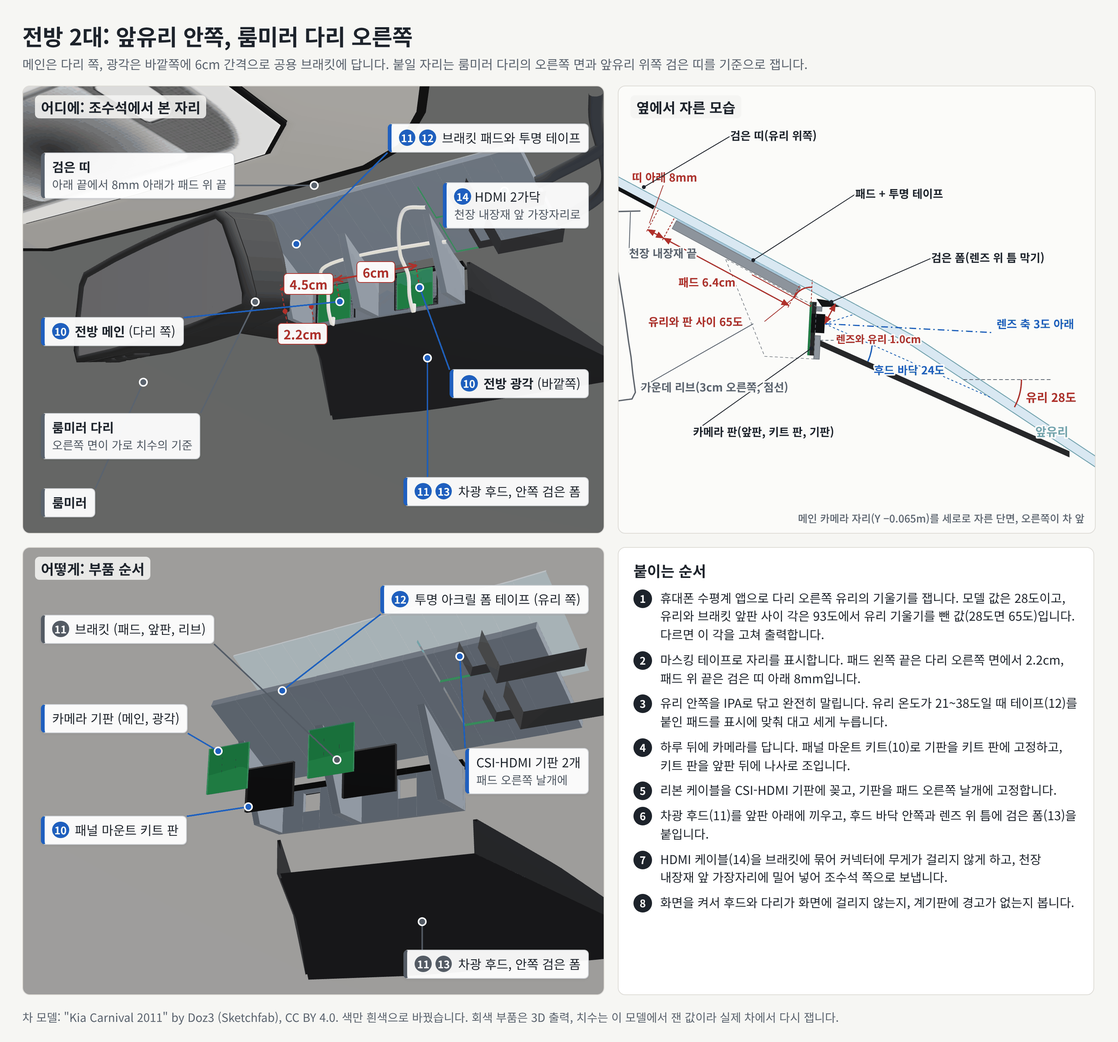
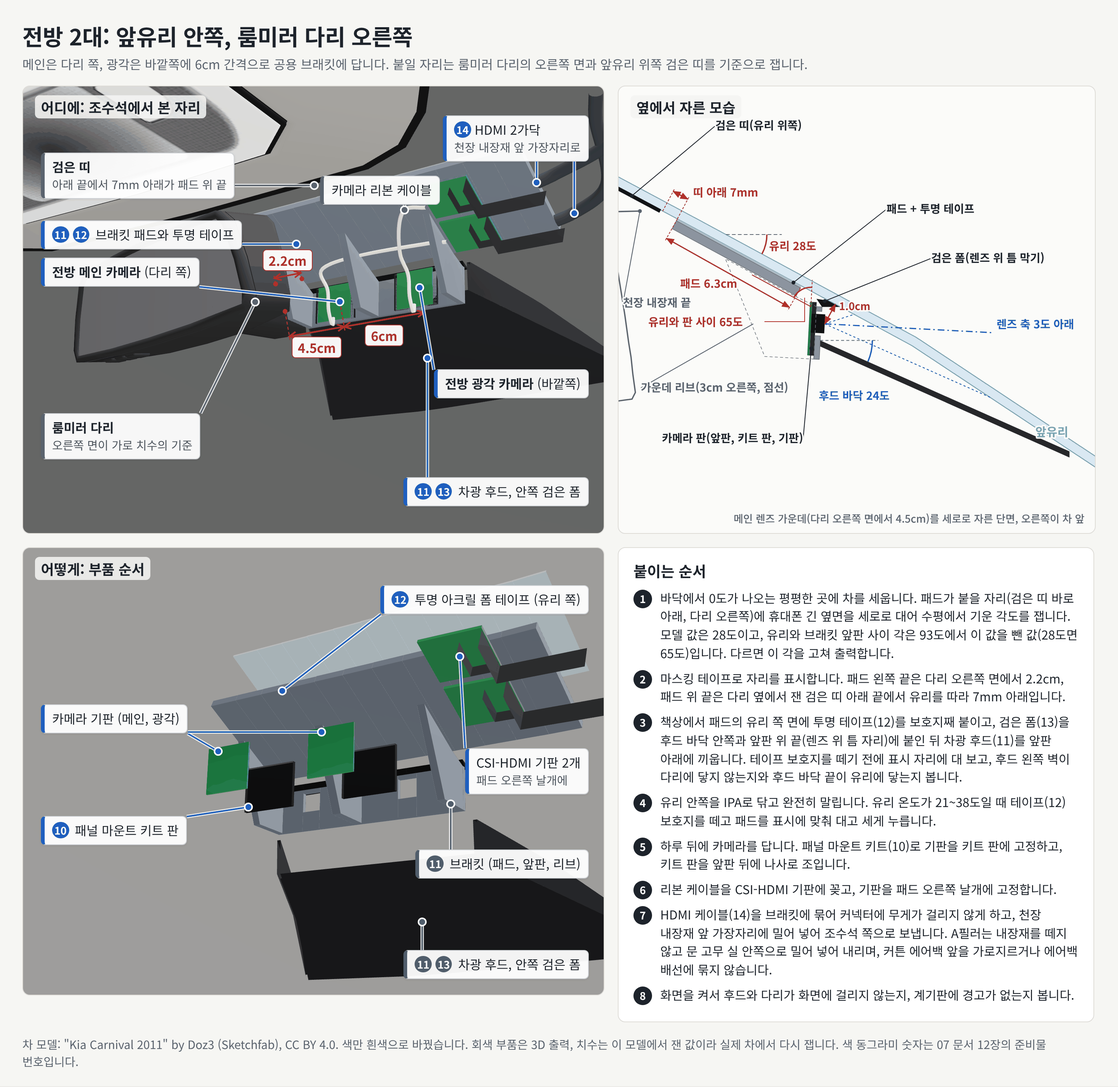
장착 자리별 그림 3장 다듬기(좌우 날개 표시 위치, 전방 확장 기판 표시, 겹친 설명선)와 문서의 숫자, 문장 바로잡기

diff --git a/docs/measurements/20_carnival_mount.md b/docs/measurements/20_carnival_mount.md
@@ -10,7 +10,7 @@
 
 모델 Y 기준으로 잡았던 각도 가운데 가장 크게 달라지는 것은 좌우 케이스입니다. 카니발의 옆유리는 위쪽이 차 안쪽으로 약 20도 기울어 있어, 렌즈를 유리에 바로 붙이면 카메라는 20도 위를 봅니다. 설정대로 20도 아래를 보게 하려면 케이스의 쐐기각이 약 40도여야 합니다. 앞유리는 룸미러 높이에서 수평으로부터 약 30도, 브래킷을 붙이는 바닥 위 1.55~1.58m에서는 약 28도 기울어 있어, 전방 카메라를 3도 아래로 보게 하는 브래킷은 유리면과 카메라 판 사이를 약 65도로 잡습니다(계산값).
 
-라즈베리파이는 조수석 아래에 둡니다. 경로를 따라 잰 케이블 길이(여유 15% 포함)는 전방 약 3.8m, 좌우 약 2.8~3.8m, 후방 약 5.9m입니다. 그래서 전방 HDMI는 5m를 쓰고, 후방은 카메라 케이블 1m에 5m 리피터를 이으면 남는 길이가 거의 없어 리피터를 하나 더 준비합니다(7장).
+라즈베리파이는 조수석 아래 바닥에 둡니다. 경로를 따라 잰 케이블 길이(여유 15% 포함)는 전방 약 3.7m, 좌우 약 3.0~3.8m, 후방 약 6.1m입니다. 그래서 전방 HDMI는 5m를 쓰고, 후방은 카메라 케이블 1m에 5m 리피터 하나로는 여유가 모자라 리피터 두 개를 잇습니다(7장).
 
 ## 2. 모델과 크기 맞추기
 
@@ -25,7 +25,7 @@
 
 공식 값은 2세대 카니발의 국내 제원이고 [V2], 영문 위키백과의 축거, 전장, 전폭도 같습니다 [V3]. 모델의 전폭은 사이드미러를 뺀 도장면의 폭이고, 전고는 루프 랙을 뺀 지붕 꼭대기와 루프 랙 위 끝을 함께 적었습니다. 공식 전고가 루프 랙을 넣은 값인지는 확인 필요입니다. 축거가 롱바디와 0.2% 안에서 맞고 숏바디와는 4.7% 달라, 모델은 롱바디(그랜드 카니발 11인승)입니다. 크기를 맞추는 데 쓰지 않은 전폭도 0.1% 안에서 맞습니다. 전장은 롱바디보다 2.1%(약 11cm) 짧아 앞뒤 끝이 덜 튀어나오게 만들어진 것으로 보이며 이유는 확인 필요입니다. 연식에 따른 제원 차이도 확인 필요입니다.
 
-사용자 차가 숏바디라면 축거가 13cm 짧아 앞뒤 거리가 들어간 값(3열 유리 위치, 케이블 길이)이 달라집니다. 숏바디의 후방 케이블은 축거 차이만큼 줄여 약 5.5m로 어림했습니다.
+사용자 차가 숏바디라면 축거가 13cm 짧아 앞뒤 거리가 들어간 값(3열 유리 위치, 케이블 길이)이 달라집니다. 숏바디는 축거가 13cm, 전장이 32cm 짧아, 후방 케이블은 앞 오버행이 같다고 보고 32cm를 줄여 여유 포함 약 5.8m로 어림했습니다. 6m와 가까워 리피터 수는 실제 차에서 잰 뒤 정합니다.
 
 재는 방법은 모두 같습니다. 모델의 차체, 유리, 실내(대시보드, 시트, 룸미러, 기둥 내장재)를 삼각형 면 그대로 두고, 카메라 자리에서 화면의 화소마다 시선을 쏘아 무엇에 먼저 닿는지를 셉니다. 렌즈 값은 `configs/five_cam.yaml`의 보정 전 값(768x432, Camera Module 3 Wide 초점거리 311px, Camera Module 3 564.3px, IMX291 160도 등거리 어안 315.5px)입니다. 유리 기울기는 붙일 자리 둘레 3cm 안의 유리 면에 점 25개를 찍어 평면을 맞춘 값입니다.
 
@@ -33,19 +33,19 @@
 
 앞유리는 휘어 있어 높이마다 기울기가 다릅니다. 가운데 근처의 기울기는 수평에서 바닥 위 1.45m 높이 33.6도, 1.50m 32.8도, 1.53m 29.8도, 1.56m 28.4도입니다. 모델의 앞유리는 평평한 면 조각을 이어 만든 것이라 1.52m와 1.60m 높이에서 기울기가 33.6도, 28.4도, 24.4도로 꺾이고, 위 값은 둘레 3cm를 평균한 것입니다. 실제 유리는 이 사이를 매끈하게 잇는 곡면이라 1.53m에서는 약 30도로 봅니다. 룸미러는 거울 몸체가 X 2.11~2.21m, Y −0.10~0.11m, Z 1.49~1.56m에 있고, 다리는 유리에 붙는 곳에서 Y −0.020~0.016m, Z 1.52~1.55m입니다.
 
-전방 2대는 다리 오른쪽(조수석 쪽)에 메인을 안쪽, 광각을 바깥쪽으로 6cm 간격을 두고 바닥 위 1.53m에 둡니다. 좌표는 메인 (2.246, −0.065, 1.53), 광각 (2.244, −0.125, 1.53)이고 렌즈 중심은 유리에서 약 1cm 안쪽입니다. 실제 차에서는 룸미러 다리의 오른쪽 면과 앞유리 위쪽 검은 띠를 기준으로 자리를 잡습니다. 다리 오른쪽 면(Y −0.020m)에서 메인 렌즈 중심까지 4.5cm, 브래킷 패드 왼쪽 끝까지 2.2cm이고, 패드 위 끝은 검은 띠의 아래 끝(바닥 위 약 1.58m)에서 유리를 따라 8mm 아래입니다. 패드는 유리를 따라 6.4cm입니다. 메인을 다리에 더 붙이지 않는 것은 차광 후드 때문입니다. 메인의 시선이 유리를 지나는 범위는 다리 높이에서 카메라 왼쪽 4.2cm까지 퍼지므로, 메인을 차 가운데에서 4.5cm 오른쪽에 두면 후드 왼쪽 벽이 다리에 걸립니다. 6.5cm 오른쪽에 두면 그 범위가 Y −0.023m에서 끝나 다리(Y −0.020m부터)와 3mm 떨어집니다.
+전방 2대는 다리 오른쪽(조수석 쪽)에 메인을 안쪽, 광각을 바깥쪽으로 6cm 간격을 두고 바닥 위 1.53m에 둡니다. 좌표는 메인 (2.246, −0.065, 1.53), 광각 (2.244, −0.125, 1.53)이고 렌즈 중심은 유리에서 약 1cm 안쪽입니다. 실제 차에서는 룸미러 다리의 오른쪽 면과 앞유리 위쪽 검은 띠를 기준으로 자리를 잡습니다. 다리 오른쪽 면(Y −0.020m)에서 메인 렌즈 중심까지 4.5cm, 브래킷 패드 왼쪽 끝까지 2.2cm입니다. 모델의 다리는 폭이 36mm라, 실제 다리 폭이 다르면 다리 가운데선에서도 재어(메인 6.3cm, 광각 12.3cm) 맞춰 봅니다. 패드는 경사 방향으로 약 6.3cm이고, 위 끝은 검은 띠의 아래 끝(바닥 위 약 1.58m)에서 유리를 따라 7mm 아래입니다. 검은 띠의 아래 끝은 광각 렌즈(Y −0.125m)까지는 높이가 같고 그보다 바깥쪽에서 올라가, 패드 위 끝 높이에서 띠까지의 거리가 Y −0.16m에서 약 1.3cm, −0.19m에서 약 3.8cm가 됩니다. 그래서 7mm는 다리 가까이에서 잽니다. 메인을 다리에 더 붙이지 않는 것은 차광 후드 때문입니다. 메인의 시선이 유리를 지나는 범위는 다리 높이에서 카메라 왼쪽 4.2cm까지 퍼지므로, 메인을 차 가운데에서 4.5cm 오른쪽에 두면 후드 왼쪽 벽이 다리에 걸립니다. 6.5cm 오른쪽에 두면 그 범위가 Y −0.023m에서 끝나 다리(Y −0.020m부터)와 3mm 떨어집니다.
 
 메인은 화면의 0.4%만 보닛 끝에 가리고, 화면 가운데 세로줄에서 바닥은 앞범퍼 앞 1.9m부터 보입니다. 광각은 화면 아래쪽 18%가 가려지고 바닥은 앞범퍼 앞 1.8m부터 보입니다. 가려진 18% 가운데 약 10%는 유리 너머의 보닛과 와이퍼 자리이고, 약 7%는 유리보다 가파르게 내려가 유리를 지나지 않는 시선이 닿는 대시보드 윗면입니다. 앞범퍼 바로 앞을 보지 못하는 것은 19번 측정 4.4절의 모델 Y와 같은 성질입니다.
 
 앞유리 자리의 약점은 유리를 비스듬히 지나는 시선이 많다는 것입니다. 유리에 75도보다 비스듬히 들어가는 시선이 메인 화면의 21%, 광각 화면의 32%이고 대부분 화면 아래쪽입니다. 이 각도에서는 유리 반사가 커져 대시보드가 화면에 비치기 쉬우므로 차광 후드를 꼭 둡니다. 후드 바닥판은 렌즈 아래 끝에서 시작해 메인 화면의 아래 끝 시선(수평에서 약 24도 아래)을 따라 내려가 유리에 닿게 만듭니다. 바닥판을 수평으로 두면 화면 아래쪽을 가립니다. 이 바닥판은 메인 화면을 가리지 않고, 광각은 화면 아래 두 모서리에서 차 앞 양옆의 바닥을 보는 시선(화면의 약 2%)을 가립니다. 이 시선은 모두 유리에 75도보다 비스듬히(가운데값 86도) 들어가 반사가 큰 곳이라 잃는 것이 적습니다. 나머지 길과 하늘을 보는 시선이 유리를 지나는 곳은 렌즈 앞 유리 점에서 경사를 따라 아래로 메인이 6.2cm 안(98%는 5.2cm 안), 광각이 12.8cm 안(98%는 7.1cm 안)입니다. 그래서 후드가 유리에 닿는 면은 경사 방향으로 약 10cm, 좌우로 먼 끝에서 약 25cm로 잡습니다. 후드 왼쪽 벽은 룸미러 다리와 가장 가까운 곳에서 약 6.5mm 떨어집니다. 이 범위 밖에서 유리를 지나는 광각의 시선은 화면의 1% 미만입니다.
 
-유리 기울기가 높이마다 달라 브래킷 각도는 실제로 붙일 자리(바닥 위 약 1.55m)에서 휴대폰 수평계로 잰 값으로 정합니다. 룸미러 뒤에 레인 센서나 블랙박스가 있는지는 확인 필요이고, 있으면 그 자리를 피해 오른쪽으로 옮기고 옮긴 만큼 설정 파일 좌표를 바꿉니다.
+유리 기울기가 높이마다 달라 브래킷 각도는 실제로 붙일 자리(바닥 위 약 1.55m)에서 휴대폰 수평계로 잰 값으로 정합니다. 룸미러 뒤에 레인 센서나 블랙박스가 있는지는 확인 필요이고, 있으면 그 자리를 피해 오른쪽으로 옮기고 옮긴 만큼 설정 파일 좌표를 바꿉니다. 조수석 햇빛가리개는 안쪽 끝이 Y −0.178m이고 후드 오른쪽 벽은 유리에 Y −0.16~−0.23m로 닿아 좌우 범위가 겹칩니다. 햇빛가리개를 내리고 올릴 때 후드에 닿지 않는지 봅니다.
 
 ## 4. 옆유리와 좌우 2대
 
 2열 슬라이딩 도어 유리와 3열 옆유리는 모두 위쪽이 차 안쪽으로 기울어 있습니다. 바닥 위 1.38m에서 잰 유리 바깥 방향 법선은 수평보다 20.5도(3열, X 0.28m), 20.9도(2열, X 1.15m) 위를 향합니다. 그래서 렌즈를 유리에 바로 붙이면 카메라는 약 20도 위를 보고, 설정의 20도 아래를 보게 하려면 카메라 축을 유리 법선에서 40.5도 아래로 돌려야 합니다. 10도 아래면 30.5도, 수평이면 20.6도입니다. 옆유리는 위로 갈수록 더 기울어 3열 유리 가운데에서 바닥 위 1.20m는 약 13도, 1.60m는 약 30도이고, 높이 1cm마다 약 0.4도씩 바뀝니다. 그래서 쐐기각은 실제로 붙일 높이에서 휴대폰 수평계로 잰 유리 기울기에 숙일 각도를 더해 정합니다.
 
-3열 옆유리에서 검은 테두리와 실내 내장재에 가리지 않는 투명한 부분은 바닥 위 1.38m 높이에서 X −0.43~0.375m이고, X 0.28m에서는 바닥 위 1.20~1.61m입니다. 2열 슬라이딩 도어 유리는 X 0.60~1.25m입니다. 좌우 카메라는 3열 유리 앞쪽인 X 0.28m, 바닥 위 1.38m에 둡니다. 렌즈 중심의 Y는 ±0.812m입니다. 실제 차에서는 차 안에서 보이는 유리 끝(검은 테두리의 안쪽 끝)을 기준으로, 렌즈 자리를 앞 끝에서 9.5cm 뒤, 아래 끝에서 유리를 따라 18.5cm 위(위 끝까지 24.7cm)로 잡습니다.
+3열 옆유리에서 검은 테두리에 가리지 않는 투명한 부분은 바닥 위 1.38m 높이에서 X −0.395~0.376m이고, X 0.28m에서는 바닥 위 1.20~1.61m입니다. 2열 슬라이딩 도어 유리는 X 0.60~1.25m입니다. 좌우 카메라는 3열 유리 앞쪽인 X 0.28m, 바닥 위 1.38m에 둡니다. 렌즈 중심의 Y는 ±0.812m입니다. 실제 차에서는 차 안에서 보이는 유리 끝(검은 테두리의 안쪽 끝)을 기준으로, 렌즈 자리를 앞 끝에서 9.6cm 뒤, 아래 끝에서 유리를 따라 18.6cm 위(위 끝까지 25.1cm)로 잡습니다. 앞 끝은 위로 갈수록 앞으로 약 12도 기울어 있어 9.6cm는 렌즈 높이에서 수평으로 잽니다. 기준으로 삼는 끝은 내장재가 아니라 검은 테두리의 끝이고, 내장재는 그보다 약 5mm 바깥에서 끝납니다. 내장재 끝에서 재면 각각 10.2cm, 19.2cm, 25.6cm입니다.
 
 | 숙인 각 | 쐐기각 | 바닥이 보이는 곳 | 75도 넘게 비스듬한 시선 |
 |---|---|---|---|
@@ -57,17 +57,17 @@
 
 숙인 각은 설정대로 20도로 둡니다. 문 옆에 선 사람의 발과 연석이 차체 옆 0.66m부터 보이고, 시뮬레이션에서 10도와 20도의 결과가 같았기 때문입니다(6장). 대신 화면 아래 16%는 유리를 아주 비스듬히 지나 어둡고 반사가 큽니다. 케이스가 렌즈와 유리 사이를 검게 막고 있으면 유리에 비치는 것은 케이스 안쪽이라 겹쳐 보이는 상은 생기지 않고 어두워지기만 합니다. 첫 시험에서 화면 아래가 너무 어두우면 30도 쐐기(10도)로 바꿉니다.
 
-케이스는 유리 쪽이 트인 쐐기 모양입니다. 렌즈 앞면을 유리에서 6mm 안에 두면, 유리에 80도보다 덜 비스듬히 들어가는 시선(화면의 89%)은 렌즈 중심에서 유리에 내린 점을 기준으로 앞뒤 각 32mm, 아래 34mm, 위 4mm 안에서 유리를 지납니다(계산값). 그래서 유리 쪽 입구는 폭 약 70mm, 높이 약 40mm로 렌즈 아래쪽을 크게 트고, 그 테두리에 검은 폼을 둘러 유리에 붙입니다. 화면 아래 두 모서리(약 3%)는 시선이 유리와 나란하거나 안쪽을 향해 케이스 벽이 보입니다. 카메라를 40도 기울이면 기판 위 끝이 유리 쪽으로 들려, 기판이 38mm 각이고 렌즈 경통이 15mm라면 기판 위 끝과 유리 사이가 5mm 남짓입니다(가정에 따른 계산값). 케이스를 그리기 전에 B0202 기판과 렌즈의 실제 치수를 잽니다.
+케이스는 유리 쪽이 트인 쐐기 모양입니다. 렌즈 앞면을 유리에서 6mm 안에 두면, 유리에 75도보다 덜 비스듬히 들어가는 시선(화면의 81%)은 렌즈 앞면(지름 14mm로 가정)의 어느 점에서 나가도 렌즈 중심을 유리에 내린 점에서 앞뒤 각 40mm, 아래 45mm, 위 6mm 안에서 유리를 지납니다(계산값). 그래서 유리 쪽 입구는 앞뒤 각 42mm, 아래 48mm, 위 9mm(폭 84mm, 높이 57mm)로 렌즈 아래쪽을 크게 틉니다. 입구 둘레에는 검은 폼(폭 6mm)과 투명 아크릴 폼 테이프(폭 8mm)를 붙일 날개를 두며, 그 바깥 치수는 11.6x9.4cm입니다. 위쪽 9mm는 유리 쪽으로 기운 렌즈 경통 테두리가 날개에 닿지 않게 둔 값입니다. 75~80도 사이의 시선은 렌즈 앞면 크기에 따라 화면의 약 2~4%가 입구 테두리에 일부 걸려 조금 어두워질 수 있어(계산값), 첫 시험에서 화면 아래 모서리를 봅니다. 화면 아래 두 모서리(약 3%)는 시선이 유리와 나란하거나 안쪽을 향해 케이스 벽이 보입니다. 몸통은 유리 쪽 폭이 88mm, 기판만 감싸는 뒤쪽 폭이 46mm이고 깊이는 약 3.7cm입니다. 카메라를 40도 기울이면 기판 위 끝이 유리 쪽으로 들려, 기판이 38mm 각이고 렌즈 경통이 15mm라면 기판 위 끝과 유리 사이가 5mm 남짓입니다(가정에 따른 계산값). 케이스를 그리기 전에 B0202 기판과 렌즈의 실제 치수를 잽니다.
 
 2열 자리도 시야는 비슷했습니다(20도에서 가림 약 4%, 바닥은 차체 옆 0.67m부터). 3열을 고른 것은 케이블과 후진 장면 때문입니다. 3열 유리가 열리는 환기창인지, 커튼 에어백이 3열 유리 위까지 오는지는 확인 필요입니다. 열리는 창이면 시험 중에는 열지 않습니다. 3열에 사람이 타면 케이스가 머리 옆에 오므로 모서리를 둥글게 만듭니다.
 
 ## 5. 후방
 
-테일게이트의 번호판 홈은 평평한 뒷벽이 X −0.93m, 바닥 위 0.88~1.06m에 있고, 그 아래는 아래쪽 턱(Z 0.80m)까지 비스듬히 내려가는 바닥입니다. 홈의 폭은 입구 기준으로 위쪽 약 0.90m, 아래쪽 약 0.84m이고, 뒷벽이 평평한 부분은 가운데 약 0.50m입니다. 위쪽 턱의 아랫면은 바닥 위 1.064m이고, 턱 끝은 X −0.999m라 뒷벽에서 약 7cm 나와 있습니다. 턱 끝에는 밝은 장식(Z 1.07~1.09m)이 있고 그 위에 KIA 엠블럼이 있습니다.
+테일게이트의 번호판 홈은 평평한 뒷벽이 X −0.93m, 바닥 위 0.88~1.06m에 있고, 그 아래는 아래쪽 턱(Z 0.80m)까지 비스듬히 내려가는 바닥입니다. 홈의 폭은 입구 기준으로 위쪽 약 0.90m, 아래쪽 약 0.84m이고, 뒷벽이 평평한 부분은 가운데 약 0.50m입니다. 위쪽 턱의 아랫면은 바닥 위 1.064m이고, 턱 끝(밝은 장식이 가장 뒤로 나온 곳)은 X −1.002m라 뒷벽에서 약 7cm 나와 있습니다. 이 장식은 Z 1.07~1.09m에 있고 그 위에 KIA 엠블럼이 있습니다.
 
-후방 카메라는 이 턱 아래 가운데 (−0.985, 0, 1.02)에 두고 뒤를 보며 20도 숙입니다. 20도 쐐기를 홈 뒷벽에 붙이고 카메라를 쐐기에 붙이는 방식이라, 쐐기와 카메라 케이스, 렌즈 길이만큼 렌즈가 뒷벽에서 나옵니다. 쐐기는 높이 4.6cm, 두께가 아래 끝 3mm에서 위 끝 약 2.1cm이고 위 끝을 턱 아랫면 6mm 밑에 둡니다. 카메라 케이스를 40x40x26mm, 렌즈 돌출을 16.5mm로 잡으면(확인 필요) 렌즈 앞면은 뒷벽에서 약 5.4cm 뒤, 턱 아랫면에서 약 4.4cm 아래, 턱 끝보다 약 1.4cm 안쪽입니다(계산값). 이 자리에서 차체가 가리는 것은 화면 아래 두 모서리의 뒤범퍼 윗면으로 화면의 0.1%이고, 턱 끝은 카메라 축에서 위로 약 94도에 있어 화면에 들어오지 않습니다. 바닥은 뒤범퍼 뒤 0.51m부터 보입니다. 바로 위에서 떨어지는 비는 턱이 막지만, 렌즈가 턱 끝 가까이 나와 있어 수직에서 약 18도보다 더 기울어 뒤에서 들이치는 비는 렌즈에 닿을 수 있습니다(계산값). 그래서 차양은 처음에 달지 않고, 비 오는 날 렌즈에 물방울이 남는지 본 뒤 덧답니다.
+후방 카메라는 이 턱 아래 가운데 (−0.985, 0, 1.02)에 두고 뒤를 보며 20도 숙입니다. 20도 쐐기를 홈 뒷벽에 붙이고 카메라를 쐐기에 붙이는 방식이라, 쐐기와 카메라 케이스, 렌즈 길이만큼 렌즈가 뒷벽에서 나옵니다. 쐐기는 높이 4.6cm, 두께가 아래 끝 3mm에서 위 끝 약 2.1cm이고 위 끝을 턱 아랫면 6mm 밑에 둡니다. 카메라 케이스를 40x40x26mm, 렌즈 돌출을 16.5mm로 잡으면(확인 필요) 렌즈 앞면은 뒷벽에서 약 5.4cm 뒤, 턱 아랫면에서 약 4.4cm 아래, 턱 끝보다 약 1.7cm 안쪽입니다(계산값). 이 자리에서 차체가 가리는 것은 화면 아래 두 모서리의 뒤범퍼 윗면으로 화면의 0.1%이고, 턱 끝은 카메라 축에서 위로 약 90도에 있어 화면에 들어오지 않습니다. 바닥은 뒤범퍼 뒤 0.51m부터 보입니다. 바로 위에서 떨어지는 비는 턱이 막지만, 렌즈가 턱 끝 가까이 나와 있어 수직에서 약 20도보다 더 기울어 뒤에서 들이치는 비는 렌즈에 닿을 수 있습니다(계산값). 그래서 차양은 처음에 달지 않고, 비 오는 날 렌즈에 물방울이 남는지 본 뒤 덧답니다.
 
-카메라는 번호판 위 끝과 턱 아랫면 사이의 틈에 들어가야 합니다. 그림은 긴 번호판을 홈 가운데보다 조금 아래(위 끝 Z 0.995m)에 그린 것으로, 이때 틈은 약 7cm입니다. 턱 아랫면에서 케이스 아래 끝까지는 약 5.7cm라 케이스와 번호판 사이는 약 1.2cm 남습니다. 렌즈가 뒷벽에서 나와 있어 위에서 30도로 내려다보면 렌즈 아래 끝이 번호판 위쪽 약 0.8cm를 덮습니다(계산값). 모델에는 번호판과 번호등이 없어, 번호판 종류(긴 번호판 또는 짧은 번호판)와 실제 높이, 번호등 자리, 카메라 케이스와 쐐기가 이 틈에 들어가는지는 확인 필요입니다.
+카메라는 번호판 위 끝과 턱 아랫면 사이의 틈에 들어가야 합니다. 그림은 긴 번호판을 홈 가운데보다 조금 아래(위 끝 Z 0.995m)에 그린 것으로, 이때 틈은 약 7cm입니다. 턱 아랫면에서 케이스 아래 끝까지는 약 5.7cm라 케이스와 번호판 사이는 약 1.2cm 남습니다. 렌즈가 뒷벽에서 나와 있어 위에서 30도로 내려다보면 렌즈 아래 끝이 번호판 위쪽 약 0.8cm를 덮습니다(계산값). 모델에는 번호판과 번호등, 턱 아랫면의 테일게이트 스위치나 손잡이가 없어, 번호판 종류(긴 번호판 또는 짧은 번호판)와 실제 높이, 번호등과 스위치나 손잡이의 자리, 카메라 케이스와 쐐기가 이 틈에 들어가는지는 확인 필요입니다. 카메라가 스위치나 손잡이를 막으면 옆으로 옮깁니다. 좌우로 10cm 옮겨도 차체가 가리는 비율은 0.14%에서 0.15%로 늘었고, 바닥이 보이는 거리는 그대로였습니다.
 
 ## 6. 카니발 차체로 돌린 카메라 대수 시뮬레이션
 
@@ -91,22 +91,22 @@
 
 ## 7. 배선 경로와 길이
 
-라즈베리파이와 두 NPU는 조수석 아래(X 1.70m, Y −0.45m)에 둡니다. 햇볕이 닿지 않고([07 문서](../07_vehicle_mount_and_training_plan.md) 5.1절), 전방 HDMI가 내려오는 오른쪽 A필러와 USB가 지나는 오른쪽 문턱에 가깝습니다.
+라즈베리파이와 두 NPU는 파이 케이스에 넣어 조수석 아래 바닥, 시트 레일 사이(X 1.76~1.92m, Y −0.45m 근처)에 둡니다. 햇볕이 닿지 않고([07 문서](../07_vehicle_mount_and_training_plan.md) 5.1절), 전방 HDMI가 내려오는 오른쪽 A필러와 USB가 지나는 오른쪽 문턱에 가깝습니다. 모델의 시트는 두께 없는 껍데기라 시트 아래 높이를 알 수 없어, 파이 케이스가 들어가는 높이와 사람이 앉았을 때 시트가 내려오는 만큼은 실제 차에서 잽니다.
 
 | 케이블 | 경로 길이 | 여유 15% 포함 | 쓸 케이블 |
 |---|---|---|---|
-| 전방 HDMI 2가닥 | 3.3m | 3.8m | HDMI 5m |
-| 우측 USB | 2.4m | 2.8m | 카메라 1m와 연장 3m |
+| 전방 HDMI 2가닥 | 3.2m | 3.7m | HDMI 5m |
+| 우측 USB | 2.6m | 3.0m | 카메라 1m와 연장 3m |
 | 좌측 USB | 3.3m | 3.8m | 카메라 1m와 연장 3m |
-| 후방 USB | 5.1m | 5.9m | 카메라 1m와 리피터 5m, 예비 리피터 5m |
+| 후방 USB | 5.3m | 6.1m | 카메라 1m와 리피터 5m 두 개 |
 
-길이는 모델에서 경유점을 이어 잰 값에 여유 15%를 더한 어림값입니다. 전방은 카메라에서 천장 앞 가장자리, 오른쪽 A필러, 대시 옆, 조수석 발밑 옆을 지나 조수석 아래로 갑니다. 좌우는 3열 유리 아래에서 옆 내장재를 따라 내려와 문턱 몰딩 아래로 앞으로 오고, 좌측은 2열 앞 바닥 매트 아래로 오른쪽으로 건너옵니다. 후방은 턱 아래 구멍으로 테일게이트 안에 들어가 위쪽 경첩 쪽 주름관, D필러, 3열 옆, 오른쪽 문턱 몰딩을 지납니다.
+길이는 모델에서 경유점을 이어 잰 값에 여유 15%를 더한 어림값입니다. 전방은 카메라에서 천장 앞 가장자리, 오른쪽 A필러, 대시 옆, 조수석 발밑 옆을 지나고, 발밑 매트 밑으로 비스듬히 들어가 시트 아래에 닿습니다. 좌우는 3열 유리 아래 끝, 렌즈 바로 밑에서 옆 내장재를 따라 내려와 문턱 몰딩 밑으로 앞으로 오고, 조수석 뒤에서 시트 아래로 들어갑니다. 3열 유리 바로 앞의 C필러 내장재에는 2열 안전벨트가 지나므로(모델 값, 확인 필요) 케이블을 그 안에 넣지 않습니다. 좌측은 2열 발밑의 바닥 매트 아래로 비스듬히 오른쪽으로 건너옵니다. 후방은 턱 아래 구멍으로 테일게이트 안에 들어가 위쪽 경첩 쪽 주름관, D필러, 3열 옆, 오른쪽 문턱 몰딩을 지납니다.
 
-후방은 카메라 케이블 1m와 리피터 5m를 더한 6m가 여유를 포함한 5.9m와 거의 같습니다. 그래서 리피터를 두 개 사서, 실제 경로가 6m를 넘으면 이어 씁니다. 라즈베리파이를 운전석과 조수석 사이에 두면 후방은 약 6.4m가 되어 처음부터 두 개를 이어야 합니다. 리피터는 허브 칩이 든 케이블이라 둘을 이으면 허브가 두 단이 되므로, 둘 다 5V 전원을 넣는 것을 기본으로 합니다(07 문서 2.3절).
+후방은 여유를 포함한 6.1m가 카메라 케이블 1m와 리피터 5m를 더한 6m를 넘어 리피터 두 개를 잇습니다. 리피터는 허브 칩이 든 케이블이라 둘을 이으면 허브가 두 단이 되므로, 둘 다 5V 전원을 넣는 것을 기본으로 합니다(07 문서 2.3절). 라즈베리파이를 운전석과 조수석 사이에 두면 후방은 약 6.6m로 더 길어집니다.
 
 ## 8. 한계와 확인 필요
 
-공개된 3D 모델이라 실제 차의 설계 도면과 같다는 보장이 없고, 특히 실내 내장재, 유리 곡률, 번호판 홈 모양은 실제 차와 다를 수 있습니다. 모델의 유리는 10~20cm 간격의 평평한 면으로 되어 있어 기울기 값은 1도 안팎의 오차를 봅니다. 전장이 제원보다 약 11cm 짧아, 범퍼 끝에서 잰 거리(바닥이 보이는 곳)와 후방 케이블 길이는 실제와 수 cm 다를 수 있습니다. 사용자 차가 롱바디인지 숏바디인지, 3열 유리가 열리는 창인지, 룸미러 뒤에 센서가 있는지, 번호판 종류와 번호등 자리는 확인 필요입니다. 3열 유리의 틴팅 농도는 야간 화질에 영향을 주므로 실제 차에서 먼저 봅니다. 렌즈 값은 보정 전 가정값이라, 비스듬한 시선의 비율과 바닥이 보이는 거리는 내부 보정 뒤 조금 달라질 수 있습니다.
+공개된 3D 모델이라 실제 차의 설계 도면과 같다는 보장이 없고, 특히 실내 내장재, 유리 곡률, 번호판 홈 모양은 실제 차와 다를 수 있습니다. 모델의 유리는 10~20cm 간격의 평평한 면으로 되어 있어 기울기 값은 1도 안팎의 오차를 봅니다. 전장이 제원보다 약 11cm 짧아, 범퍼 끝에서 잰 거리(바닥이 보이는 곳)와 후방 케이블 길이는 실제와 수 cm 다를 수 있습니다. 사용자 차가 롱바디인지 숏바디인지, 3열 유리가 열리는 창인지, 룸미러 뒤에 센서가 있는지, 번호판 종류, 번호등과 테일게이트 스위치 자리, 조수석 아래 높이는 확인 필요입니다. 3열 유리의 틴팅 농도는 야간 화질에 영향을 주므로 실제 차에서 먼저 봅니다. 렌즈 값은 보정 전 가정값이라, 비스듬한 시선의 비율과 바닥이 보이는 거리는 내부 보정 뒤 조금 달라질 수 있습니다.
 
 ## 9. 다시 돌리는 명령
 

diff --git a/docs/progress.md b/docs/progress.md
@@ -45,7 +45,7 @@
 
 차에 달 카메라는 5대로 정했습니다. 앞유리 안쪽의 전방 광각과 전방 메인은 CSI로 달고, 후방(번호판 위)과 좌우는 대각 160도 USB 카메라로 답니다. 좌우는 B필러 자리(카니발에서는 3열 옆유리 안쪽)에서 옆을 정면으로 보고, 후방은 차 밖이라 방수 처리가 필요합니다. 지금의 2대와 4대에서 8대까지 모두 22개 배치를 아홉 장면에 넣어 비교한 시뮬레이션에서, 이 5대는 차를 한 바퀴 도는 사람을 끊김 없이 같은 ID로 따라갔고 물체가 화면에 나온 비율(표시 비율)은 8대보다 1.2%p 낮았습니다(0.913과 0.926). 앞범퍼 2.4m 안의 사람 위치, 뒤에서 차 사이로 오는 오토바이, 옆 차 너머의 보행자는 5대가 약한 곳입니다. 결과는 [19번 측정](measurements/19_camera_count_sim.md), 설정은 [configs/five_cam.yaml](../configs/five_cam.yaml), 제품과 판매처는 [06 문서](06_pi5_camera_selection.md)에 있습니다.
 
-차량이 기아 카니발 2011이라, 같은 차종의 공개 3D 모델을 공식 제원 크기에 맞춰 카메라 자리와 각도, 케이블 길이를 쟀습니다. 모델은 롱바디(축거 3,020mm)와 맞았습니다. 자리는 전방 2대가 앞유리 안쪽 룸미러 다리 오른쪽(바닥 위 1.53m), 좌우가 3열 옆유리 안쪽, 후방이 번호판 홈의 위쪽 턱 아래(차 밖)입니다. 옆유리가 위쪽으로 약 20도 기울어 있어 좌우 케이스는 약 40도 쐐기가 되고, 앞유리 브래킷은 유리면과 카메라 판 사이를 약 65도로 잡습니다. 이 자리로 시뮬레이션을 다시 돌려도 5대로 충분했습니다(표시 비율 0.917, 모델 Y 기준 0.913). 파이는 조수석 아래에 두고, 전방 HDMI는 5m를 쓰며, 후방 USB는 약 5.9m라 리피터를 하나 더 준비합니다. 결과는 [20번 측정](measurements/20_carnival_mount.md), 설정은 [configs/five_cam_carnival.yaml](../configs/five_cam_carnival.yaml), 장착 방법은 [07 문서](07_vehicle_mount_and_training_plan.md)에 있습니다.
+차량이 기아 카니발 2011이라, 같은 차종의 공개 3D 모델을 공식 제원 크기에 맞춰 카메라 자리와 각도, 케이블 길이를 쟀습니다. 모델은 롱바디(축거 3,020mm)와 맞았습니다. 자리는 전방 2대가 앞유리 안쪽 룸미러 다리 오른쪽(바닥 위 1.53m), 좌우가 3열 옆유리 안쪽, 후방이 번호판 홈의 위쪽 턱 아래(차 밖)입니다. 옆유리가 위쪽으로 약 20도 기울어 있어 좌우 케이스는 약 40도 쐐기가 되고, 앞유리 브래킷은 유리면과 카메라 판 사이를 약 65도로 잡습니다. 이 자리로 시뮬레이션을 다시 돌려도 5대로 충분했습니다(표시 비율 0.917, 모델 Y 기준 0.913). 파이는 조수석 아래 바닥에 두고, 전방 HDMI는 5m를 쓰며, 후방 USB는 약 6.1m라 5m 리피터 두 개를 잇습니다. 자리마다 실제 차에서 찾을 수 있는 기준(룸미러 다리, 유리의 검은 띠와 테두리, 번호판 홈의 턱)에서 잰 치수와 자른 단면, 붙이는 순서를 그림으로 만들었습니다. 결과는 [20번 측정](measurements/20_carnival_mount.md), 설정은 [configs/five_cam_carnival.yaml](../configs/five_cam_carnival.yaml), 장착 방법은 [07 문서](07_vehicle_mount_and_training_plan.md)에 있습니다.
 
 파이 한 대로 5대 구성과 v15풍 화면이 모자랄 때를 대비해 처리를 나누는 방법을 비교했습니다. NPU는 여유가 크고 병목은 CPU라, 두 번째 파이 5를 렌더링 전용으로 두고 랜선으로 바로 잇는 방법을 추천합니다. 먼저 `--render-thread`로 한 대에서 재 보고 모자랄 때 들입니다. 근거와 다른 후보(NPU 추가, Jetson Orin Nano Super, RK3588 보드)는 [08 문서](08_pi_offload_options.md)에 있습니다.
 
@@ -113,7 +113,7 @@ cd ~/Desktop/App/fsd_diff_npu && python ~/Desktop/App/fsd_agent.py --task-file d
 9. Hailo DFC와 DX-COM 컴파일, FlashOcc 학습이 필요해지면 x86 리눅스 GPU 서버 연결.
 10. 5대 구성 카메라 구매(제품과 판매처는 [06 문서](06_pi5_camera_selection.md)). 받으면 USB 카메라 3대를 포트마다 하나씩 꽂아 `lsusb -t`와 `dmesg`로 대역 문제가 없는지, 5V 5A 전원에서 전류가 모자라지 않은지 봅니다. 좌우 카메라의 수평 화각은 실제로 쓸 해상도(1280x720)에서 내부 보정으로 잽니다(130도 이상이어야 함). 이어서 사람이 좌우 카메라 화면 가장자리를 걷는 영상과 앞범퍼 바로 앞에 선 영상을 녹화해 두면, 이 결정이 기대는 두 가정(어안 가장자리 검출, 보닛에 가려진 사람 검출)을 확인할 수 있습니다.
 11. 차량 장착 준비물 구매(목록과 판매처는 [07 문서](07_vehicle_mount_and_training_plan.md) 12장). 쐐기, 브래킷, 케이스 같은 3D 출력 부품은 실제 차에서 앞유리와 3열 옆유리의 기울기를 잰 뒤 맡깁니다.
-12. 카니발 확인: 롱바디(11인승)인지 숏바디(9인승)인지, 3열 유리가 열리는 창인지, 룸미러 뒤에 센서나 블랙박스가 있는지, 번호판 종류와 번호등 자리를 사진으로 확인합니다. 숏바디라면 3열 자리와 케이블 길이를 다시 잽니다([20번 측정](measurements/20_carnival_mount.md) 8장).
+12. 카니발 확인: 롱바디(11인승)인지 숏바디(9인승)인지, 3열 유리가 열리는 창인지, 룸미러 뒤에 센서나 블랙박스가 있는지, 번호판 종류와 번호등 자리를 사진으로 확인합니다. 턱 아랫면의 테일게이트 스위치나 손잡이 자리, 조수석 아래 높이(파이 케이스가 들어가는지, 앉았을 때 시트에 닿지 않는지)도 함께 봅니다. 숏바디라면 3열 자리와 케이블 길이를 다시 잽니다([20번 측정](measurements/20_carnival_mount.md) 8장).
 
 ## 알려진 문제
 
